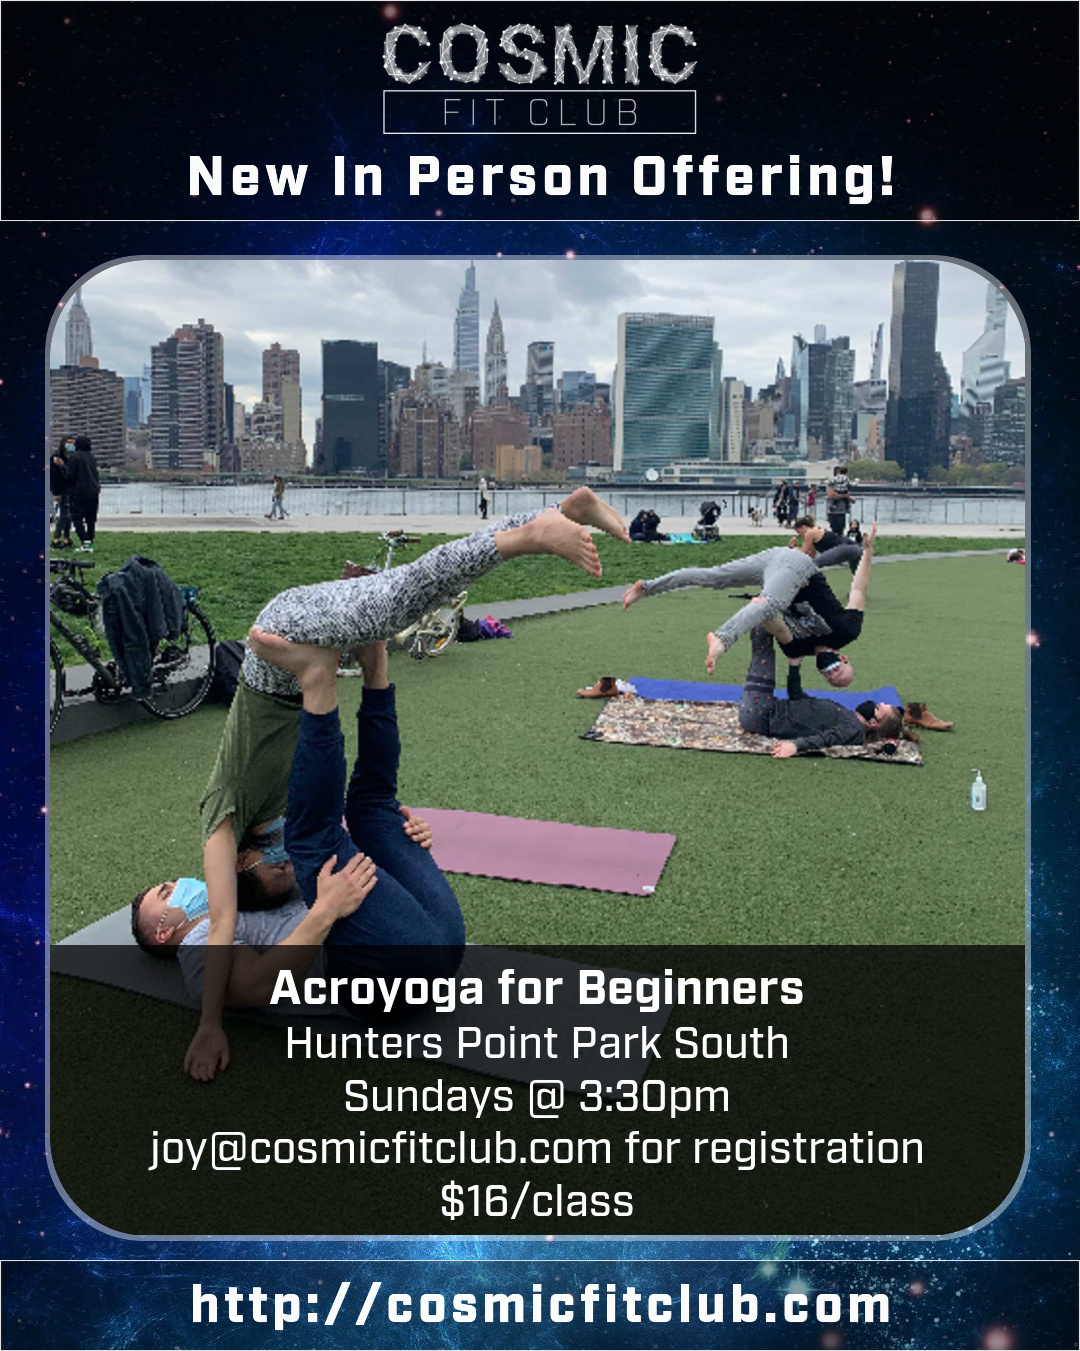
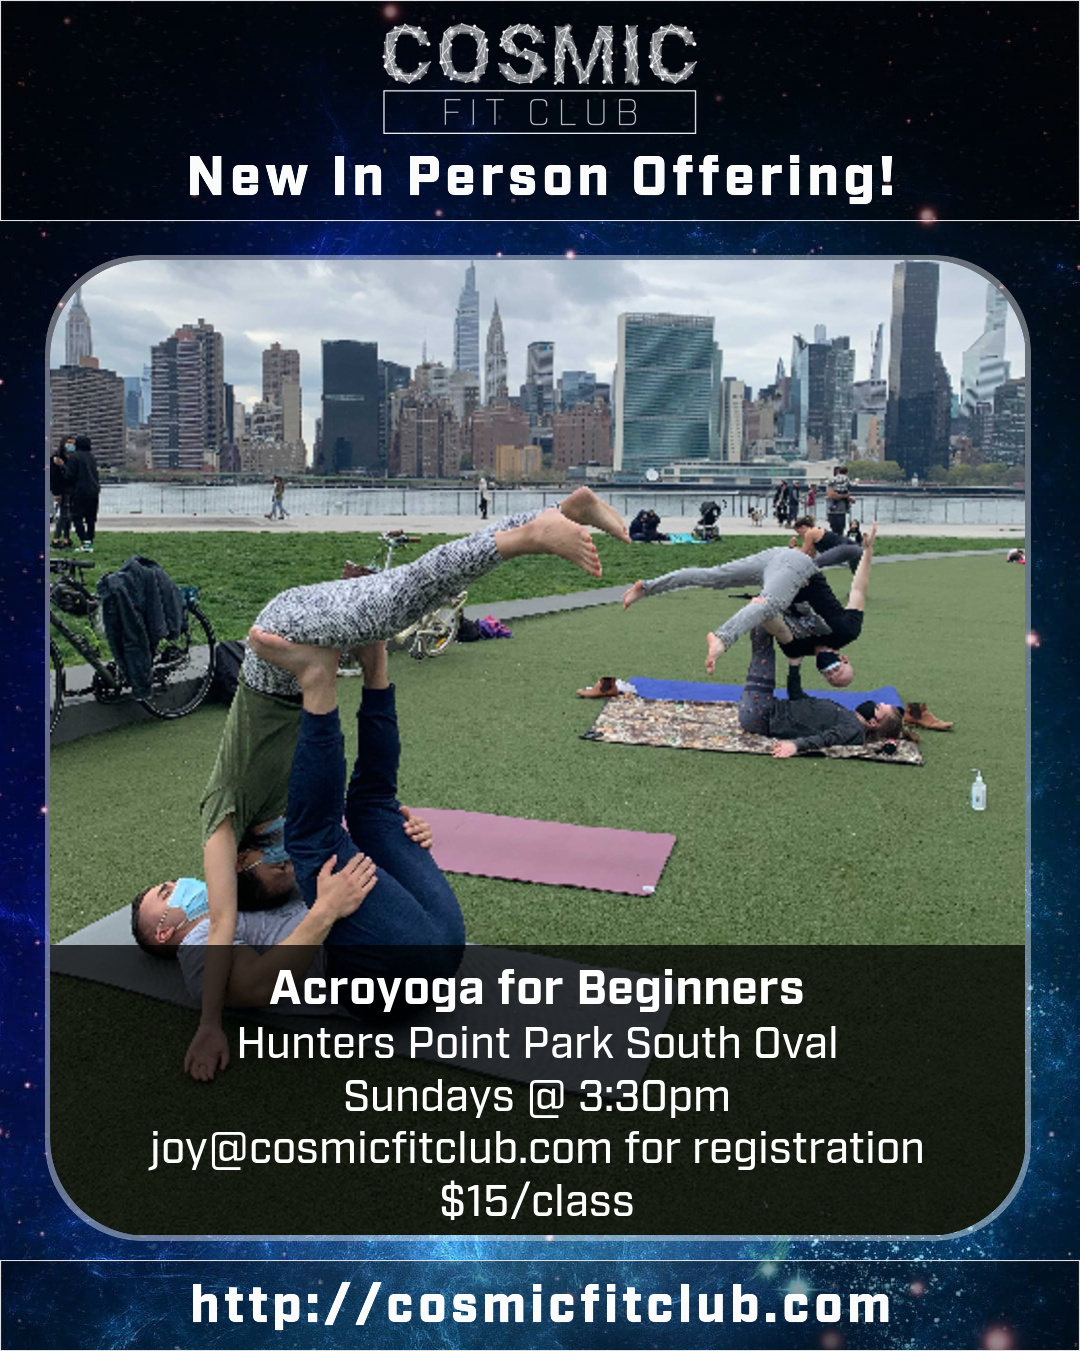
Event Images

Changed region(s): [[0.2139, 0.7461, 0.7639, 0.8083]]

diff --git a/printable/ParkPromo.rb b/printable/ParkPromo.rb
@@ -36,7 +36,7 @@ module ParkPromo
           :ptscale  => 0.05,
           :ptscale2 => 0.9,
           :img      => ClassDef[174].image_url,
-          :lines    => ["Acroyoga for Beginners", "Hunters Point Park South", "Sundays @ 3:30pm", "joy@cosmicfitclub.com for registration", "$16/class"]
+          :lines    => ["Acroyoga for Beginners", "Hunters Point Park South Oval", "Sundays @ 3:30pm", "joy@cosmicfitclub.com for registration", "$15/class"]
         },
         { :type => 'box', 
           :width => 1079,

diff --git a/models/Events/Event.rb b/models/Events/Event.rb
@@ -72,7 +72,7 @@ class Event < Sequel::Model
   #################### ATTRIBUTE ACCESS ###################
 
   def image_url
-    self.image.nil? ? '' : self.image[:original].nil? ? self.image.img_url : self.image[:original].url
+    self.image.nil? ? '' : self.image[:original].nil? ? self.image.url : self.image[:original].url
   end
 
   def thumb_url; thumb_image_url end
